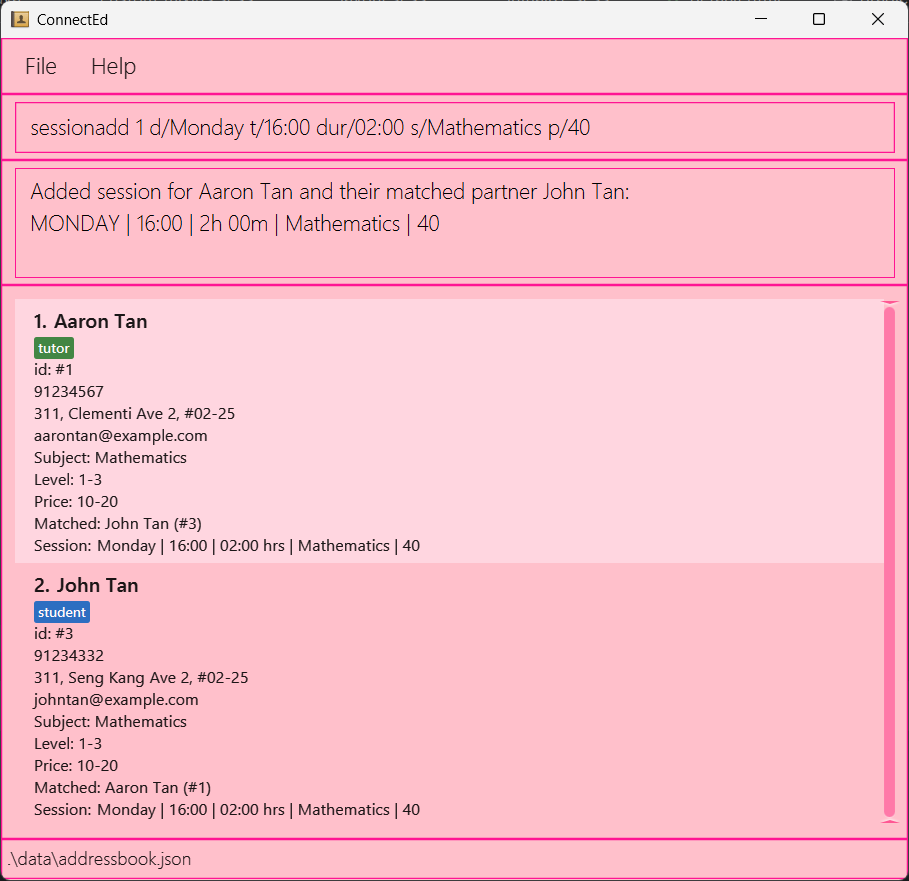
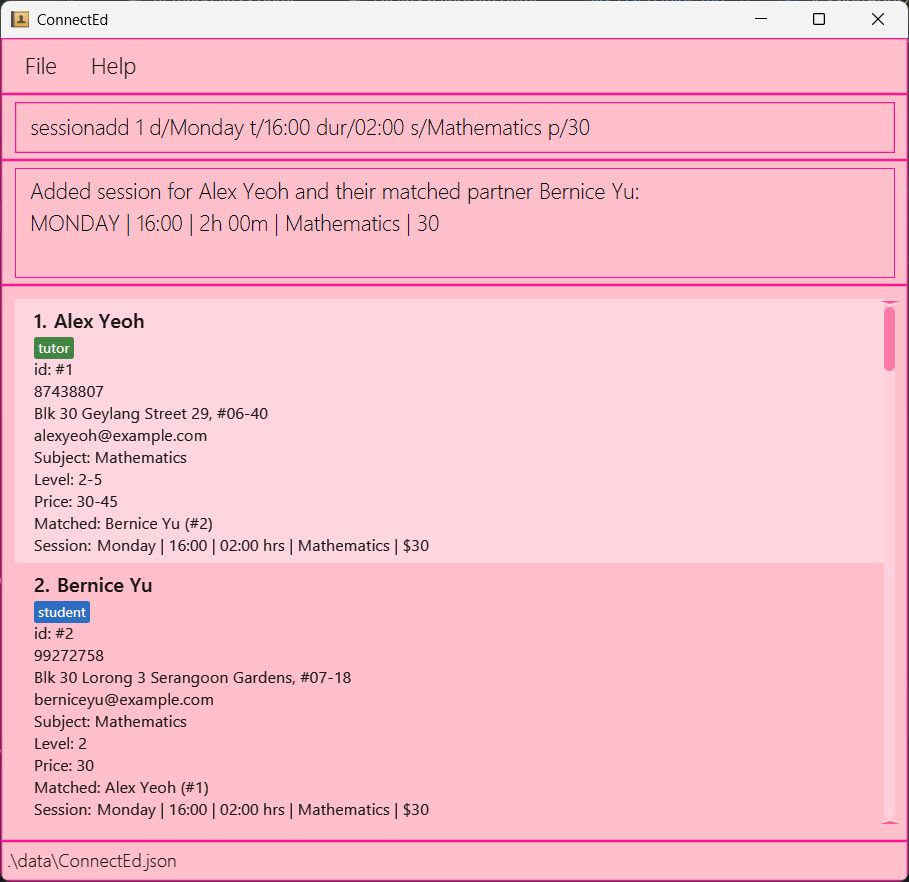
Update UserGuide based on changes

diff --git a/docs/UserGuide.md b/docs/UserGuide.md
@@ -73,6 +73,10 @@ ConnectEd is a **desktop app for managing tutors and students, optimized for use
   * Use `<INDEX>` persons (1-indexed; visible list indices; no spaces).
   * Examples: `delete 1`, `delete 2`, `match 1 2`, `unmatch 2`.
 
+* Optional parameters
+  * Square brackets `[ ]` indicate optional arguments.
+  * Examples: list `[<tutors/students>]` — runs list tutors or list students if specified, otherwise defaults to showing all.
+
 
 * Errors (shape & value)
   <br>The app guides with specific messages on: wrong command format, missing/invalid `<tutor/student>` or `<tutors/students>`, invalid field (`/s` `/l` `/p`), malformed values (non-integer level, bad `min-max`, min>max), duplicates, and empty lists.
@@ -118,9 +122,12 @@ Examples:
 
 Shows a list of either tutors or students.
 
-Format: `list`  |  `list tutors`  |  `list students`
+Format: `list [<tutors/students>]`
 
-Examples: `list`, `list tutors` , `list students`
+Examples: 
+* `list`
+* `list tutors` 
+* `list students`
 
 ### Finding *tutors* or *students*: `find`
 
@@ -195,7 +202,7 @@ Examples:
 ### Recommending persons : `recommend`
 Recommends a list of tutors to a student or a list of students to a tutor based on subject, level, and/or price range.
 
-Format: `recommend INDEX [s/] [l/] [p/]`
+Format: `recommend <INDEX> [s/] [l/] [p/]`
 * Recommends tutors to a student or students to a tutor at the specified `INDEX`.
 * The index refers to the index number shown in the current displayed list.
 * The index **must be a positive integer** 1, 2, 3, …
@@ -269,14 +276,14 @@ Details:
 
 Examples:
 
-* `sessionadd 1 d/Monday t/16:00 dur/02:00 s/Mathematics p/40`
-Adds a 2-hour Monday 4 PM Mathematics session with a price of $40 for the person (at index 1) and their matched 
+* `sessionadd 1 d/Monday t/16:00 dur/02:00 s/Mathematics p/30`
+Adds a 2-hour Monday 4 PM Mathematics session with a price of $30 for the person (at index 1) and their matched 
 counterpart.
 
 * `sessiondelete 1`
 Deletes the existing session for the person (at index 1) and their matched counterpart.
 
-![result for 'sessionadd 1 d/Monday t/16:00 dur/02:00 s/Mathematics p/40'](images/SessionResult.png)
+![result for 'sessionadd 1 d/Monday t/16:00 dur/02:00 s/Mathematics p/30'](images/SessionResult.png)
 
 ### Viewing statistics : `stats`
 Displays statistics about the current tutors and students in ConnectEd, including total counts, average prices, subject distributions, and matched pairs.
@@ -318,7 +325,7 @@ ConnectEd data are saved in the hard disk automatically after any command that c
 
 ### Editing the data file
 
-ConnectEd data are saved automatically as a JSON file `[JAR file location]/data/addressbook.json`. Advanced users are welcome to update data directly by editing that data file.
+ConnectEd data are saved automatically as a JSON file `[JAR file location]/data/connected.json`. Advanced users are welcome to update data directly by editing that data file.
 
 <div markdown="span" class="alert alert-warning">:exclamation: **Caution:**
 If your changes to the data file makes its format invalid, ConnectEd will discard all data and start with an empty data file at the next run. Hence, it is recommended to take a backup of the file before editing it.<br>
@@ -350,13 +357,13 @@ _Details coming soon ..._
 Action | Format, Examples
 --------|------------------
 **Add** |`add r/<tutor/student> <name> hp/ <phone> e/ <email> a/ <address> s/ <subject> l/ <level_or_range> p/ <min-max>` e.g., `add r/student n/aaron hp/91234567 e/aaront@example.com a/Blk 30 Geylang Street 29, #06-40 s/mathematics l/3 p/20-30`
-**Edit** | `edit INDEX [n/<name>] [hp/<phone>] [e/<email>] [a/<address>] [s/<subject>] [l/<level>] [p/<min-max>] [t/tag]` e.g., `edit 1 n/John Doe hp/91234567 e/johndoe`
+**Edit** | `edit <INDEX> [n/<name>] [hp/<phone>] [e/<email>] [a/<address>] [s/<subject>] [l/<level>] [p/<min-max>] [t/tag]` e.g., `edit 1 n/John Doe hp/91234567 e/johndoe`
 **Clear** | `clear`
-**Delete** | `delete INDEX`<br> e.g., `delete 3`
+**Delete** | `delete <INDEX>`<br> e.g., `delete 3`
 **Find** | `find <tutors/students> <field>/ <filter_value>`<br> e.g., `find students s/ english`
 **Match/Unmatch** | `match <Id> <Id> / unmatch <Id> `<br> e.g., `match 1 2 / unmatch 1`
 **List** | `list / list students / list tutors`
 **Sort** | `sort <students/tutors> <filter_criteria>` or `sort reset`<br> e.g., `sort students p/`, `sort reset`
-**Recommend** | `recommend INDEX [s/] [l/] [p/]`<br> e.g., `recommend 1 s/ l/`
+**Recommend** | `recommend <INDEX> [s/] [l/] [p/]`<br> e.g., `recommend 1 s/ l/`
 **Stats** | `stats`
 **Help** | `help`
